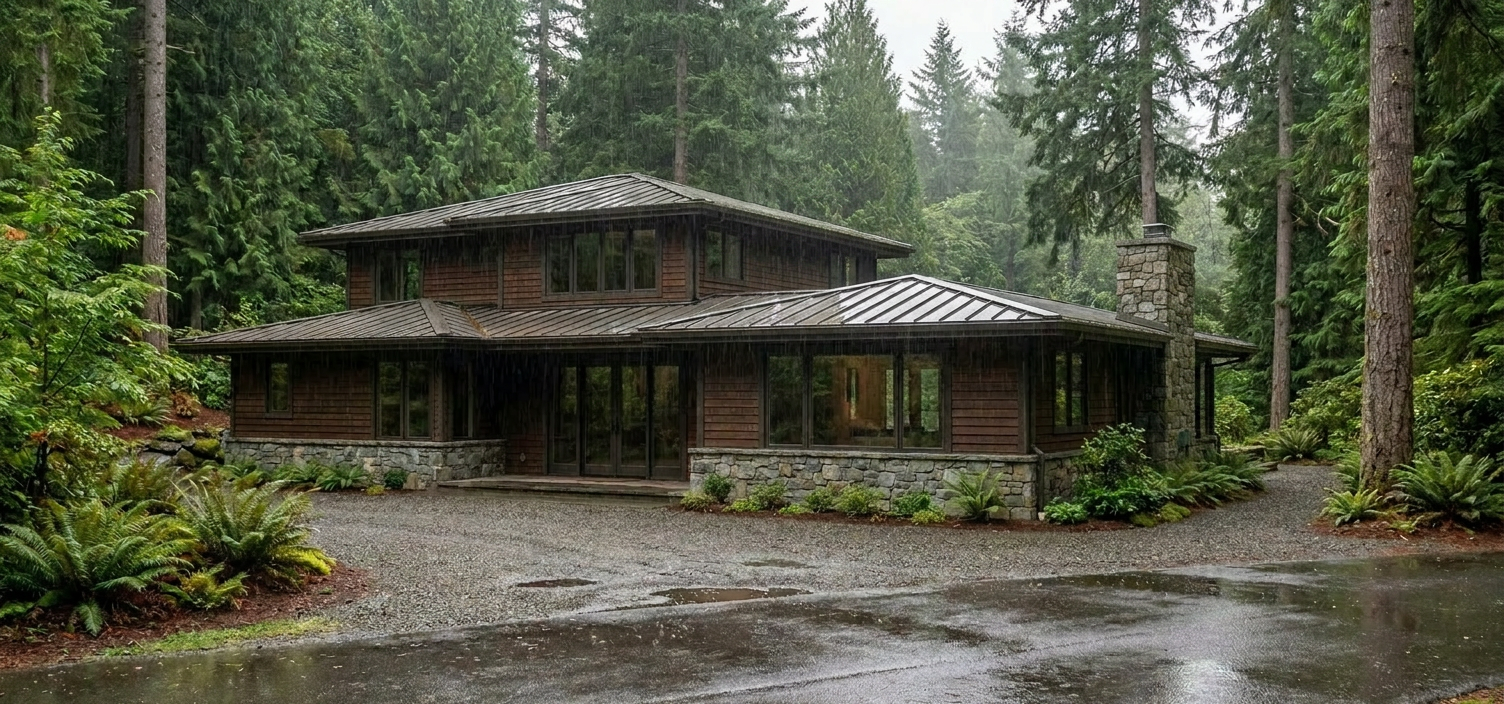
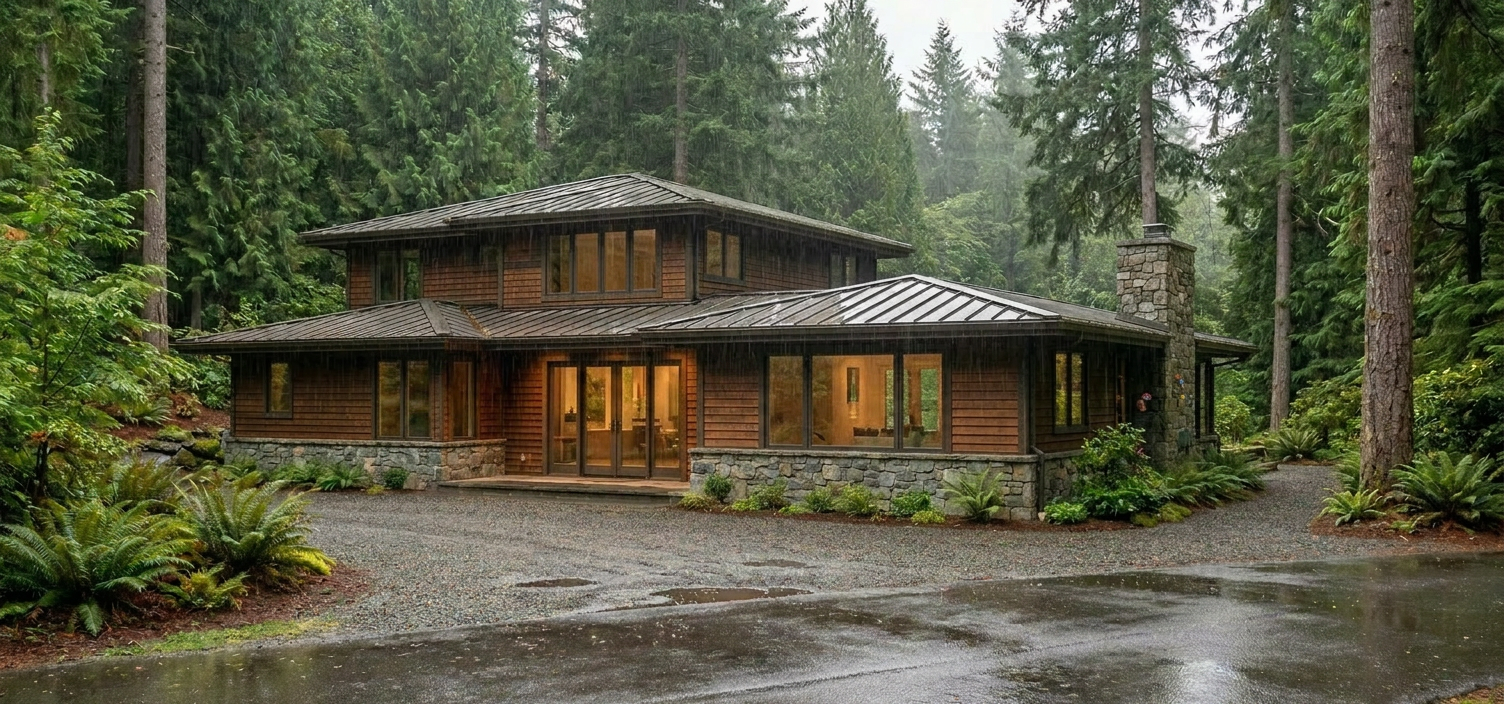
Add story-14c image and update 14a/14b; wire 14c into lightbox

diff --git a/story-14.html b/story-14.html
@@ -71,6 +71,9 @@
           <div class="lightbox-slide">
             <img src="images/story-14b.png" alt="Two-Level ADU Concept – view 2">
           </div>
+          <div class="lightbox-slide">
+            <img src="images/story-14c.png" alt="Two-Level ADU Concept – view 3">
+          </div>
         </div>
       </div>
 